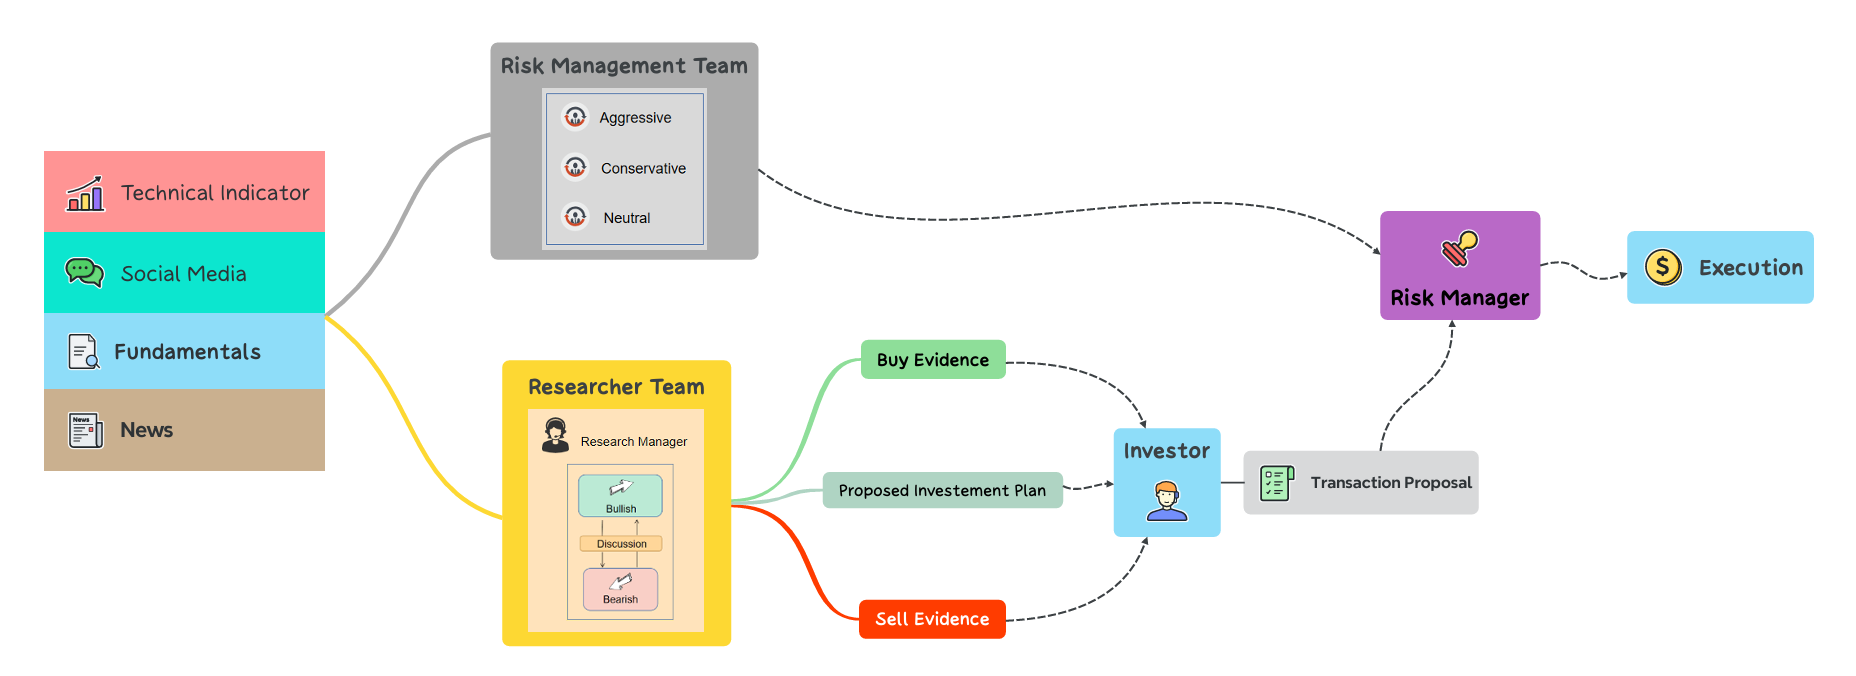
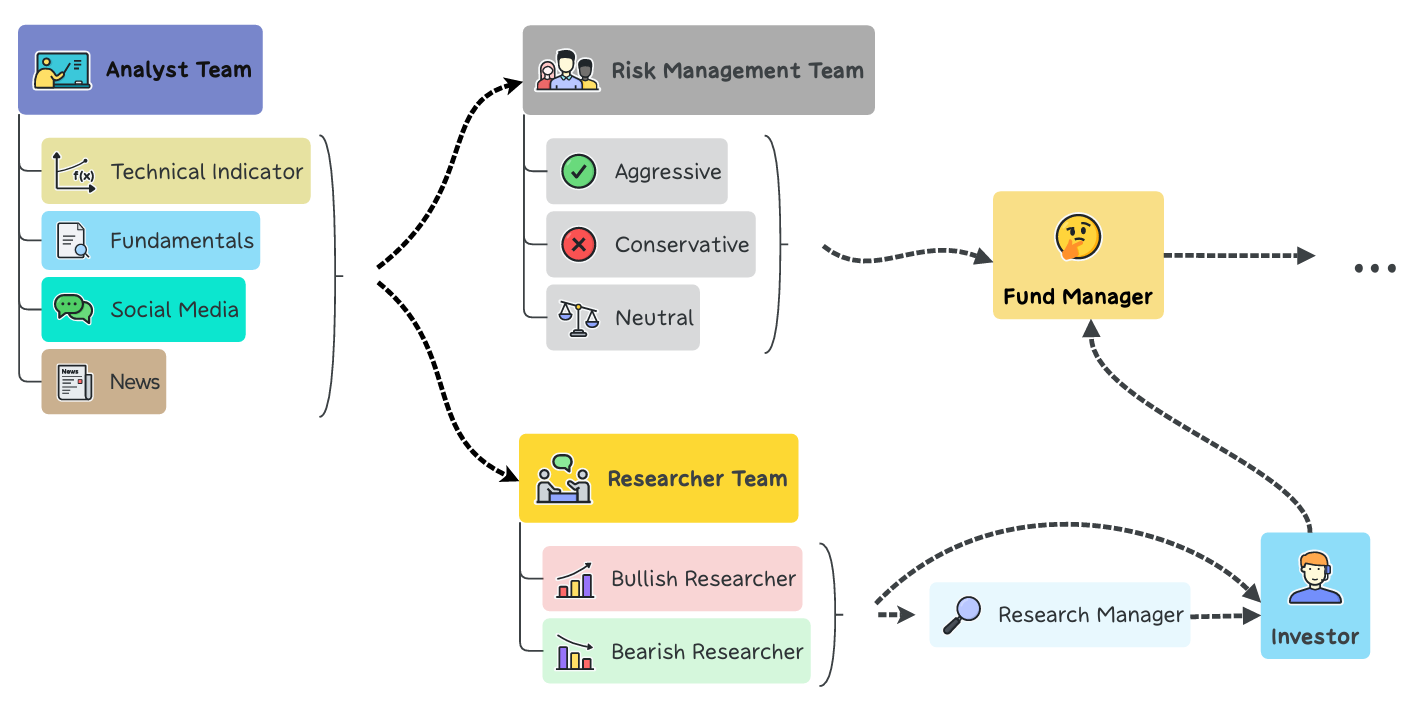
update

diff --git a/index.html b/index.html
@@ -135,7 +135,7 @@
         <h2 class="title is-3">Abstract</h2>
         <div class="content has-text-justified">
           <p>
-            Multi-agent systems based on large language models (LLMs) have made significant progress in automating the solution of real-world problems. In the financial field, most of the existing research is limited to single-agent systems solving a single task or multi-agent frameworks with independent data collection, lacking exploration in simulating the trading pipeline of real-world trading firms. This limits the system from capturing potential gains from real-world trading processes that have been optimized through practical experience. InvestAgents implements an automated multi-agent trading framework by simulating the investment processes of trading firms. This framework assigns diverse roles to LLM-based agents, such as fundamental analysts, sentiment analysts, and technical analysts, who are responsible for financial analysis, market sentiment capture, and trend prediction respectively. In decision-making, there are three components: 1. Agents holding bullish and bearish arguments, along with the Debating Facilitator Agent; 2. Investor Agent; 3. Risk Management Agents with differing investment attitudes and Risk Manager Agent. They collaborate to make trading decisions. The detailed architecture design and experimental results show that InvestAgents can provide valuable and in-depth investment insights from multiple perspectives, assisting hedge funds, investment banks in making trading decisions and improving trading efficiency.
+            In the financial field, most of the existing research is limited to single-agent systems solving a single task or multi-agent frameworks with independent data collection, lacking exploration in simulating the trading pipeline of real-world trading firms. This limits the system from capturing potential gains from real-world trading processes that have been optimized through practical experience. InvestAgents implements an automated multi-agent trading framework by simulating the investment processes of trading firms. This framework assigns diverse roles to LLM-based agents, such as fundamental analysts, sentiment analysts, and technical analysts. In decision-making, there are four components: 1. Researcher Agents holding bullish and bearish arguments, and Research Manager Agent; 2. Investor Agent; 3. Risk Management Agents with differing investment attitudes; 4. Fund Manager Agent. They collaborate to make trading decisions. The detailed architecture design and experimental results show that InvestAgents can provide valuable and in-depth investment insights from multiple perspectives, assisting hedge funds, investment banks in making trading decisions and improving trading efficiency.
           </p>
         </div>
       </div>
@@ -150,107 +150,7 @@
       <div class="column is-four-fifths">
         <h2 class="title is-3">Method</h2>
         <div class="content has-text-justified">
-          <p>
-            <b>The Architecture of OneLLM</b>, which consists of modality tokenizers, a universal encoder, a universal
-            projection module (UPM)
-            and an LLM.
-          </p>
-
           <img src="static/images/overview.png" alt="MY ALT TEXT">
-
-          <p>
-            The modality tokenizer is a 2D/1D convolution layer to transform the input signal into a sequence of
-            tokens. For simplicity,
-            we omit video, depth/normal map tokenizers. The universal encoder is a frozen vision-language model (i.e.
-            CLIP) to extract high
-            dimensional features. The UPM is composed of several projection experts and modality routers to align the
-            input signal with language.
-            For the alignment stage, we train modality tokenizers and UPM, and keep LLM frozen. For the instruction
-            tuning stage, we only train the
-            LLM and keep other models frozen. In a forward pass of UPM, we concatenate the input and modality tokens
-            as input. Then we only take
-            the modality tokens as a summary of the input signal and feed it into LLM for multimodal understanding.
-          </p>
-
-          <h3 class="title is-4">Analyst Team</h3>
-          <div class="content has-text-justified">
-            <p>The Analyst Team gathers and analyzes market data across various domains:</p>
-            <ul>
-              <li><strong>Fundamental Analysts:</strong> Assess company fundamentals to identify undervalued or overvalued stocks.</li>
-              <li><strong>Sentiment Analysts:</strong> Analyze social media and public sentiment to gauge market mood.</li>
-              <li><strong>News Analysts:</strong> Evaluate news and macroeconomic indicators to predict market movements.</li>
-              <li><strong>Technical Analysts:</strong> Use technical indicators to forecast price trends and trading opportunities.</li>
-            </ul>
-            <p>Combined, their insights provide a holistic market view, feeding into the Researcher Team for further evaluation.</p>
-            
-            <!-- <figure class="image">
-              <img src="./static/images/Analyst.png" alt="TradingAgents Analyst Team" style="width: 65%;">
-              <figcaption class="has-text-centered"><strong>Figure 2:</strong> TradingAgents Analyst Team</figcaption>
-            </figure> -->
-          </div>
-          
-          <h3 class="title is-4">Researcher Team</h3>
-          <div class="content has-text-justified">
-            <p>The Researcher Team critically evaluates analyst data through a dialectical process involving bullish and bearish perspectives. This debate ensures balanced analysis, identifying both opportunities and risks to inform trading strategies.</p>
-            
-            <!-- <div class="columns"> -->
-              <!-- <div class="column">
-                <figure class="image">
-                  <img src="./static/images/Researcher.png" alt="TradingAgents Researcher Team">
-                  <figcaption class="has-text-centered"><strong>Figure 3:</strong> TradingAgents Researcher Team</figcaption>
-                </figure>
-              </div> -->
-              <!-- <div class="column">
-                <figure class="image">
-                  <img src="./static/images/Trader.png" alt="TradingAgents Trader Decision-Making Process">
-                  <figcaption class="has-text-centered"><strong>Figure 4:</strong> TradingAgents Trader Decision-Making Process</figcaption>
-                </figure>
-              </div> -->
-              <!-- <div class="column">
-                <figure class="image">
-                  <img src="./static/images/RiskMGMT.png" alt="TradingAgents Risk Management Team Workflow">
-                  <figcaption class="has-text-centered"><strong>Figure 5:</strong> TradingAgents Risk Management Workflow</figcaption>
-                </figure>
-              </div> -->
-            <!-- </div> -->
-            
-            <ul>
-              <li><strong>Bullish Researchers:</strong> Highlight positive market indicators and growth potential.</li>
-              <li><strong>Bearish Researchers:</strong> Focus on risks and negative market signals.</li>
-            </ul>
-            
-            <p>This process ensures a balanced understanding of market conditions, aiding Trader Agents in making informed decisions.</p>
-          </div>
-          
-          <h3 class="title is-4">Trader Agents</h3>
-          <div class="content has-text-justified">
-            <p>Trader Agents execute decisions based on comprehensive analyses. They evaluate insights from analysts and researchers to determine optimal trading actions, balancing returns and risks in a dynamic market environment.</p>
-            
-            <ul>
-              <li>Assessing analyst and researcher recommendations.</li>
-              <li>Determining trade timing and size.</li>
-              <li>Executing buy/sell orders.</li>
-              <li>Adjusting portfolios in response to market changes.</li>
-            </ul>
-            
-            <p>Precision and strategic thinking are essential for their role in maximizing performance.</p>
-          </div>
-          
-          <h3 class="title is-4">Risk Management Team</h3>
-          <div class="content has-text-justified">
-            <p>The Risk Management Team oversees the firm's exposure to market risks, ensuring trading activities stay within predefined limits.</p>
-            
-            <ul>
-              <li>Assessing market volatility and liquidity.</li>
-              <li>Implementing risk mitigation strategies.</li>
-              <li>Advising Trader Agents on risk exposures.</li>
-              <li>Aligning portfolio with risk tolerance.</li>
-            </ul>
-            
-            <p>They ensure financial stability and safeguard assets through effective risk control.</p>
-            
-            <p>All agents utilize the ReAct prompting framework, facilitating a collaborative and dynamic decision-making process reflective of real-world trading systems.</p>
-          </div>
         </div>
       </div>
     </div>
@@ -261,11 +161,11 @@
   <div class="container is-max-desktop">
     <div class="columns is-centered has-text-centered">
       <div class="column is-12">
-        <h2 class="title is-3">Qualitative Results on Eight Modalities.</h2>
+        <h2 class="title is-3">Qualitative Results for Multiple Tickers with Different Trading Decisions.</h2>
         <div class="content has-text-justified">
         </div>
         <p>
-          Please note that all demo inputs are from the web or the testing set of corresponding modalities.
+          https://github.com/cszhengyh/InvestAgents/tree/main/examples
         </p>
       </div>
     </div>
